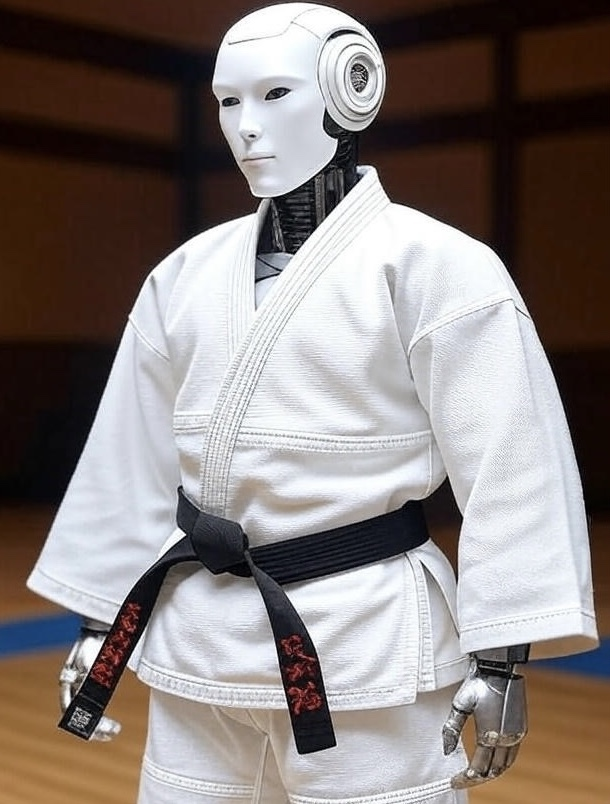
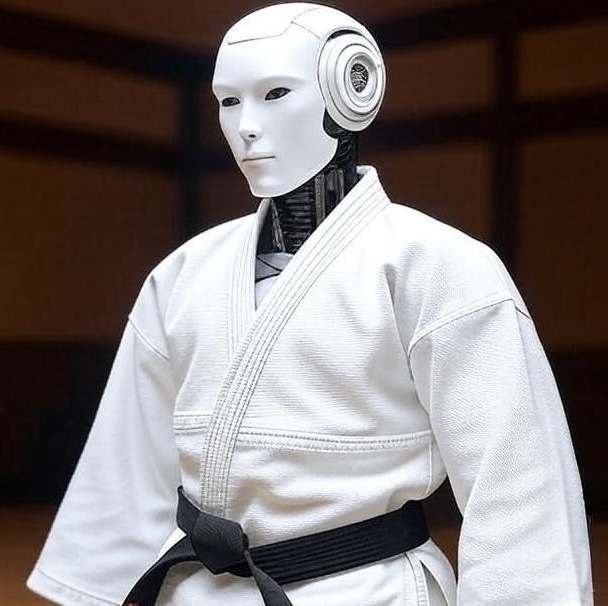
Improve AI coach interactions and fix activity log errors for new projects
Fixes project charter save error by adding organizationId to activity logs.

Replit-Commit-Author: Agent
Replit-Commit-Session-Id: d4d5894f-8368-4b53-adce-4927d668abee
Replit-Commit-Screenshot-Url: https://storage.googleapis.com/screenshot-production-us-central1/1a32d3f4-c693-4ef5-b5d4-f598f2773314/8abdcab8-e9fd-4f31-96e5-e097a78af84f.jpg

diff --git a/server/routes.ts b/server/routes.ts
@@ -461,12 +461,16 @@ export async function registerRoutes(app: Express): Promise<Server> {
       const project = await storage.createProject(projectData);
       
       // Log activity
-      await storage.createActivityLog({
-        userId: projectData.createdBy,
-        projectId: project.id,
-        action: "create_project",
-        details: `Created project: ${project.title}`
-      });
+      const user = await storage.getUser(projectData.createdBy);
+      if (user) {
+        await storage.createActivityLog({
+          organizationId: user.organizationId,
+          userId: projectData.createdBy,
+          projectId: project.id,
+          action: "create_project",
+          details: `Created project: ${project.title}`
+        });
+      }
       
       return res.status(201).json({ project });
     } catch (err) {
@@ -486,12 +490,16 @@ export async function registerRoutes(app: Express): Promise<Server> {
       
       // Log activity
       if (req.body.userId) {
-        await storage.createActivityLog({
-          userId: req.body.userId,
-          projectId: project.id,
-          action: "update_project",
-          details: `Updated project: ${project.title}`
-        });
+        const user = await storage.getUser(req.body.userId);
+        if (user) {
+          await storage.createActivityLog({
+            organizationId: user.organizationId,
+            userId: req.body.userId,
+            projectId: project.id,
+            action: "update_project",
+            details: `Updated project: ${project.title}`
+          });
+        }
       }
       
       return res.status(200).json({ project });
@@ -521,12 +529,16 @@ export async function registerRoutes(app: Express): Promise<Server> {
       
       // Log activity
       if (userId) {
-        await storage.createActivityLog({
-          userId,
-          projectId: null,
-          action: "delete_project",
-          details: `Deleted project: ${project.title}`
-        });
+        const user = await storage.getUser(userId);
+        if (user) {
+          await storage.createActivityLog({
+            organizationId: user.organizationId,
+            userId,
+            projectId: null,
+            action: "delete_project",
+            details: `Deleted project: ${project.title}`
+          });
+        }
       }
       
       return res.status(200).json({ success: true });
@@ -595,13 +607,17 @@ export async function registerRoutes(app: Express): Promise<Server> {
         
         // Log activity
         if (req.body.userId) {
-          await storage.createActivityLog({
-            userId: req.body.userId,
-            projectId,
-            action: "create_charter",
-            details: "Created project charter"
-          });
-          console.log("Activity log created for user:", req.body.userId);
+          const user = await storage.getUser(req.body.userId);
+          if (user) {
+            await storage.createActivityLog({
+              organizationId: user.organizationId,
+              userId: req.body.userId,
+              projectId,
+              action: "create_charter",
+              details: "Created project charter"
+            });
+            console.log("Activity log created for user:", req.body.userId);
+          }
         }
         
         return res.status(201).json({ charter });
@@ -672,13 +688,18 @@ export async function registerRoutes(app: Express): Promise<Server> {
       
       // Log activity
       if (req.body.userId) {
-        await storage.createActivityLog({
-          userId: req.body.userId,
-          projectId: charter.projectId,
-          action: "update_charter",
-          details: "Updated project charter"
-        });
-        console.log("Activity log created for user:", req.body.userId);
+        // Get user's organization ID
+        const user = await storage.getUser(req.body.userId);
+        if (user) {
+          await storage.createActivityLog({
+            organizationId: user.organizationId,
+            userId: req.body.userId,
+            projectId: charter.projectId,
+            action: "update_charter",
+            details: "Updated project charter"
+          });
+          console.log("Activity log created for user:", req.body.userId);
+        }
       }
       
       return res.status(200).json({ charter });

diff --git a/server/ai-coach.ts b/server/ai-coach.ts
@@ -21,12 +21,12 @@ You are an AI Master Black Belt Coach specializing in Lean Six Sigma methodology
 Your role is to provide expert guidance, answer questions, and help users navigate their Lean Six Sigma projects. Always provide practical, actionable advice based on proven methodologies. Be encouraging and supportive while maintaining professional expertise.
 
 When answering questions:
-1. Provide clear, structured responses
-2. Include relevant tools and techniques
+1. Provide clear, concise and precise structured responses
+2. Include relevant tools and techniques when necessary
 3. Offer practical examples when helpful
-4. Suggest next steps or follow-up actions
+4. Suggest next steps or follow-up actions when relevant
 5. Reference appropriate DMAIC phase when relevant
-6. Be concise but thorough
+6. Be very concise but thorough
 
 Remember, you're helping users improve their processes and achieve measurable results through data-driven decision making.
 `;
@@ -74,5 +74,5 @@ export const QUICK_HELP_RESPONSES = {
   
   msa: "Measurement System Analysis evaluates the quality of your measurement process. It examines repeatability (equipment variation) and reproducibility (appraiser variation). Are you working with continuous or attribute data?",
   
-  rootCause: "Effective root cause analysis uses tools like 5 Whys, Fishbone diagrams, and Pareto analysis. The key is to dig deep beyond symptoms to find the true causes. What problem are you investigating?"
+  rootCause: "Effective root cause analysis uses tools like 5 Whys, Fishbone diagrams, 6M's and Pareto analysis. The key is to dig deep beyond symptoms to find the true causes. What problem are you investigating?"
 };

diff --git a/client/src/components/ai-coach/AIMBBCoach.tsx b/client/src/components/ai-coach/AIMBBCoach.tsx
@@ -168,7 +168,7 @@ export default function AIMBBCoach({ className }: AIMBBCoachProps) {
       </CardHeader>
 
       {!isMinimized && (
-        <CardContent className="p-0 flex flex-col h-[450px]">
+        <CardContent className="p-0 flex flex-col h-[430px]">
           <ScrollArea className="flex-1 p-4">
             <div className="space-y-4">
               {messages.map((message) => (

diff --git a/shared/schema.ts b/shared/schema.ts
@@ -557,6 +557,7 @@ export const activityLogs = pgTable("activity_logs", {
 });
 
 export const insertLogSchema = createInsertSchema(activityLogs).pick({
+  organizationId: true,
   userId: true,
   projectId: true,
   action: true,
